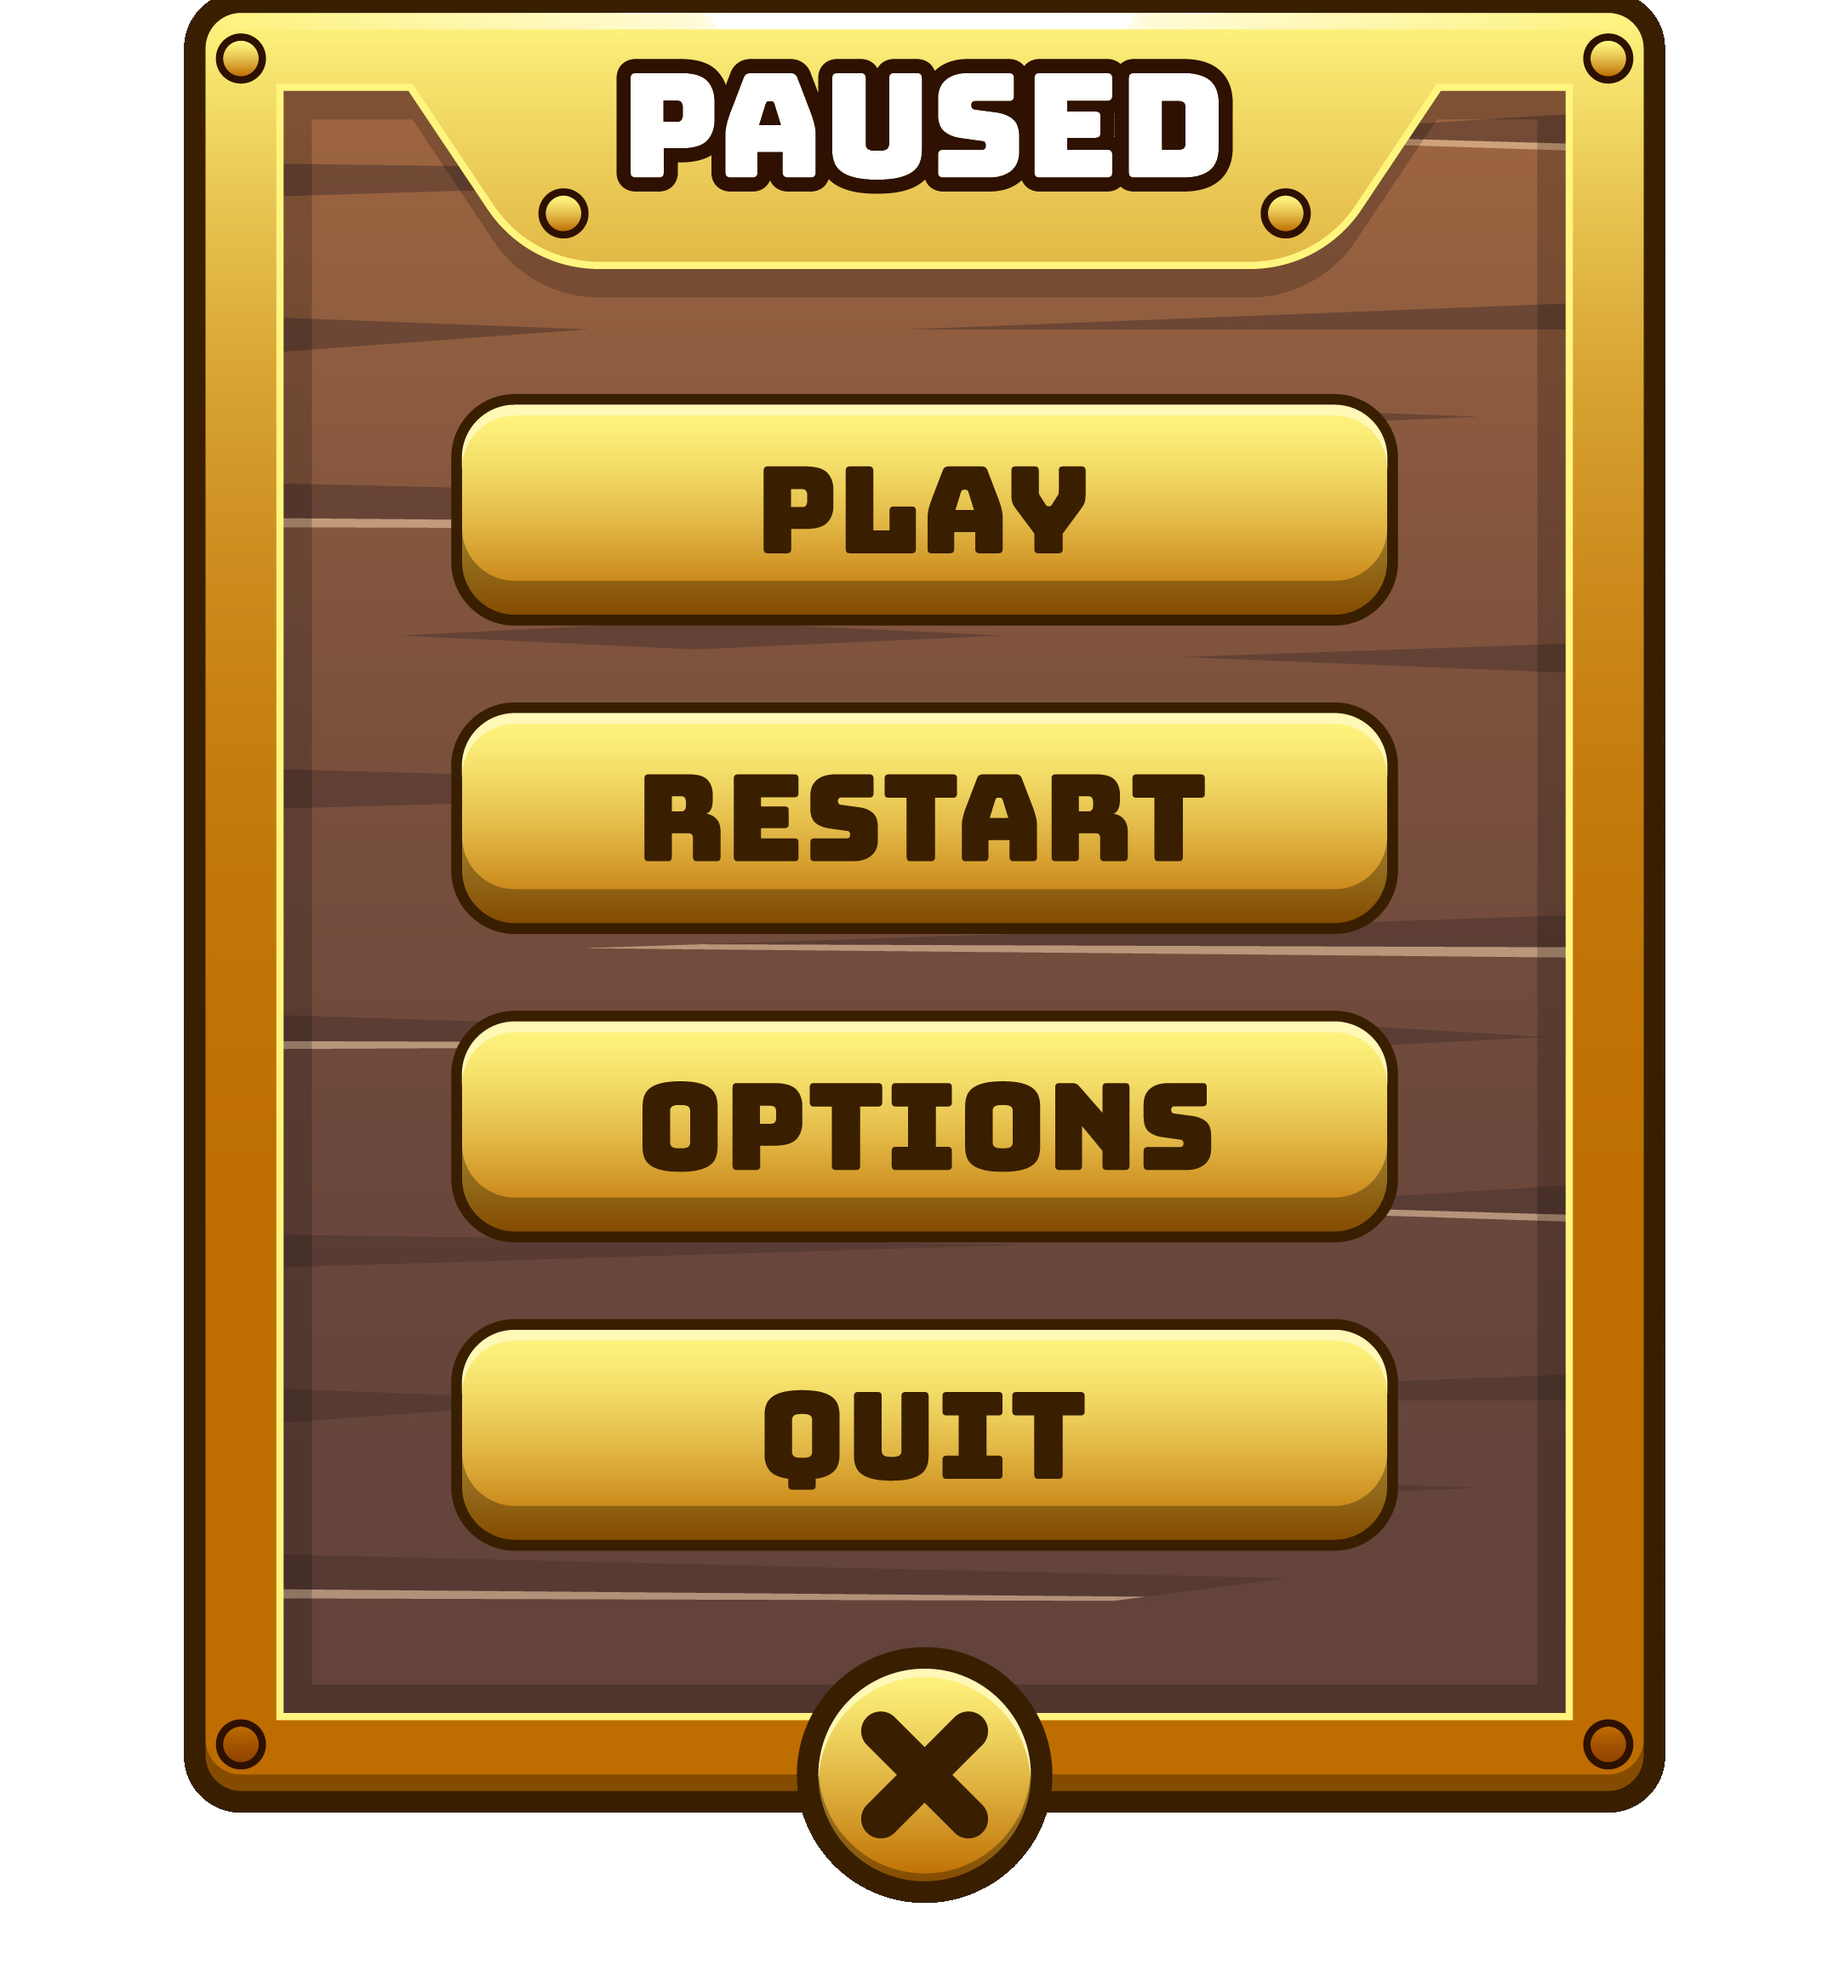
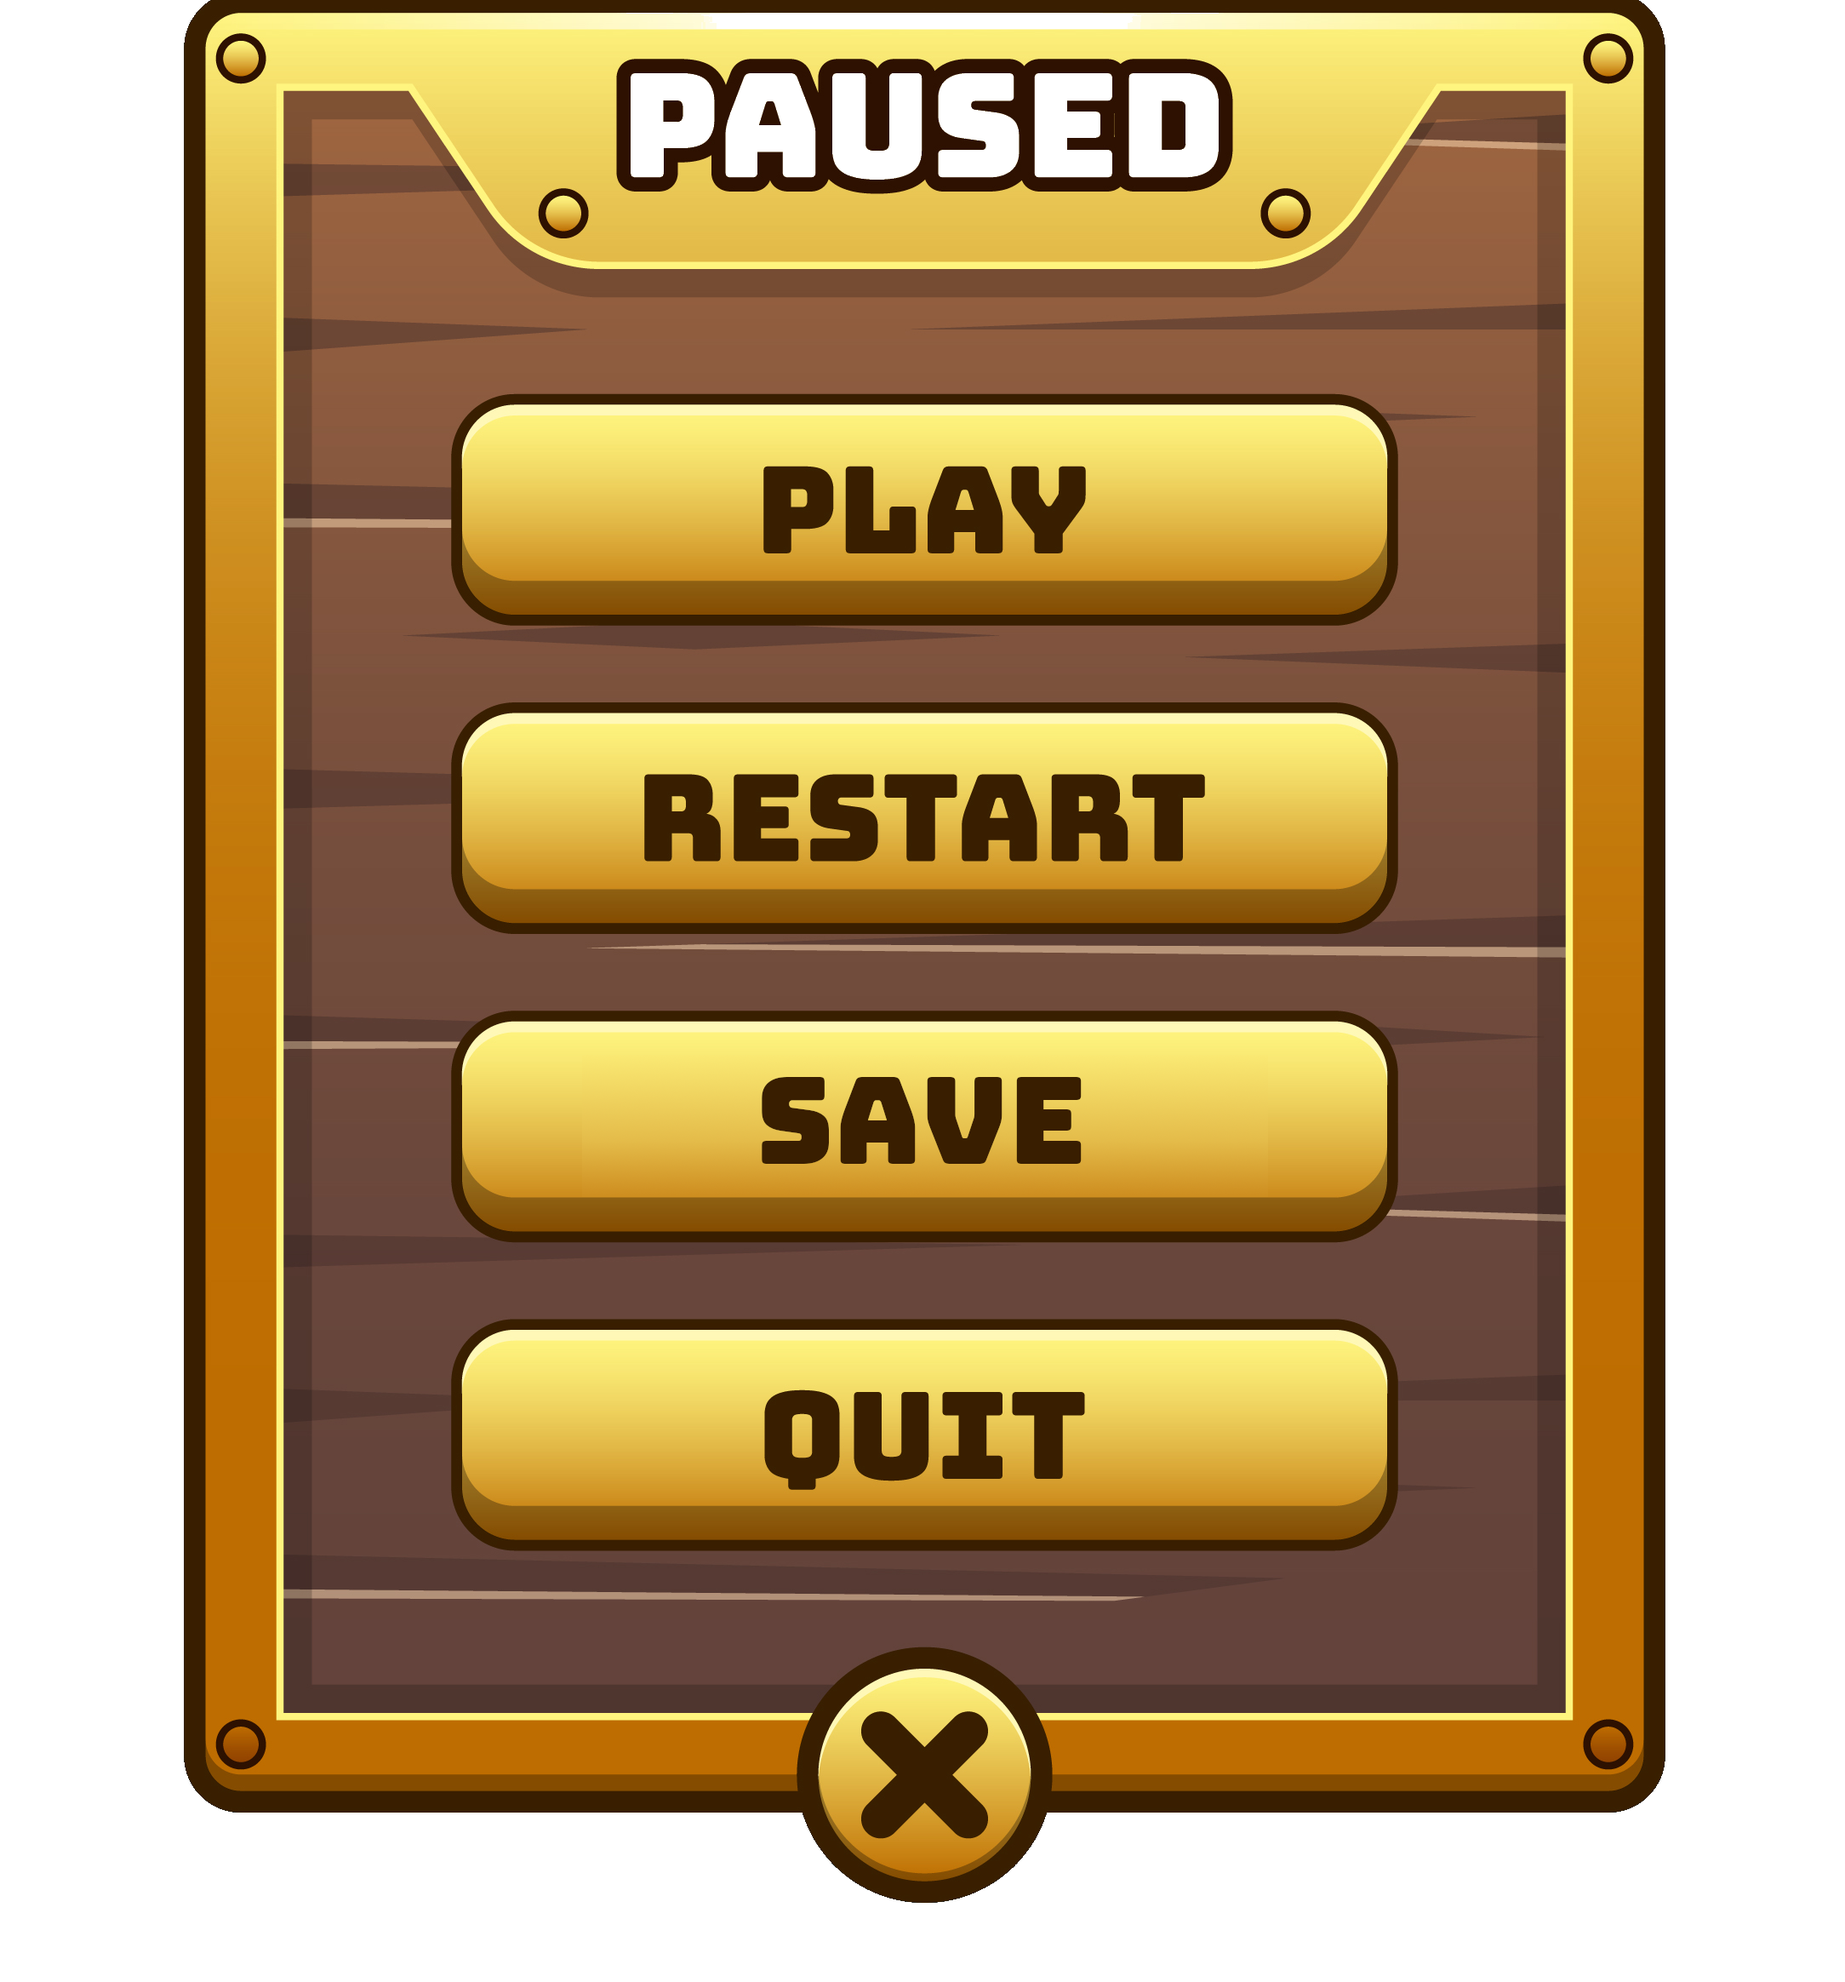
pause menu and save game screen done(only thing left is to maybe add more the the static level)

Changed region(s): [[0.3399, 0.5258, 0.6799, 0.5876]]

diff --git a/core/src/main/java/Screens/SettingsMenu.java b/core/src/main/java/Screens/SettingsMenu.java
@@ -9,6 +9,7 @@ import com.badlogic.gdx.graphics.Color;
 import com.badlogic.gdx.graphics.Pixmap;
 import com.badlogic.gdx.graphics.Texture;
 import com.badlogic.gdx.graphics.g2d.NinePatch;
+import com.badlogic.gdx.graphics.g2d.TextureRegion;
 import com.badlogic.gdx.scenes.scene2d.InputEvent;
 import com.badlogic.gdx.scenes.scene2d.ui.Button;
 import com.badlogic.gdx.scenes.scene2d.ui.Image;
@@ -18,31 +19,30 @@ import com.badlogic.gdx.scenes.scene2d.utils.NinePatchDrawable;
 import com.badlogic.gdx.utils.ScreenUtils;
 
 public class SettingsMenu extends BaseScreen{
-    private Texture prev_screen;
 
-    public SettingsMenu(Game game, Texture prev_screen){
+    public SettingsMenu(Game game){
         super(game);
-        this.prev_screen = prev_screen;
+        Image bg = new Image(new Texture(Gdx.files.internal("screens/mainmenu/angy bird bg.jpg")));
         Image background = new Image(new Texture(Gdx.files.internal("screens/settingsmenu/settingsmenu.png")));
         background.setSize(1000,   background.getHeight() / background.getWidth() * 1000);
         background.setPosition(stage.getWidth() / 2 - background.getWidth() / 2, stage.getHeight() / 2 - background.getHeight() / 2);
 
-        // Create a Pixmap for the stroke (border)
-        Pixmap pixmap = new Pixmap(100, 100, Pixmap.Format.RGBA8888);
-        pixmap.setColor(Color.RED); // Stroke color
-        pixmap.drawRectangle(0, 0, 100, 100); // Draw a rectangle stroke
-
-// Create a texture from the pixmap
-        Texture pixmapTexture = new Texture(pixmap);
-        pixmap.dispose(); // Dispose of the pixmap after creating the texture
-
-// Create a NinePatch from the texture to handle resizing
-        NinePatch strokeNinePatch = new NinePatch(pixmapTexture, 2, 2, 2, 2); // Adjust the patch settings for the stroke size
-        Drawable strokeDrawable = new NinePatchDrawable(strokeNinePatch);
-
-// Create a ButtonStyle and assign the stroke drawable
-        Button.ButtonStyle strokeButtonStyle = new Button.ButtonStyle();
-        strokeButtonStyle.up = strokeDrawable; // Use the stroke drawable as the button's up state
+//        // Create a Pixmap for the stroke (border)
+//        Pixmap pixmap = new Pixmap(100, 100, Pixmap.Format.RGBA8888);
+//        pixmap.setColor(Color.RED); // Stroke color
+//        pixmap.drawRectangle(0, 0, 100, 100); // Draw a rectangle stroke
+//
+//// Create a texture from the pixmap
+//        Texture pixmapTexture = new Texture(pixmap);
+//        pixmap.dispose(); // Dispose of the pixmap after creating the texture
+//
+//// Create a NinePatch from the texture to handle resizing
+//        NinePatch strokeNinePatch = new NinePatch(pixmapTexture, 2, 2, 2, 2); // Adjust the patch settings for the stroke size
+//        Drawable strokeDrawable = new NinePatchDrawable(strokeNinePatch);
+//
+//// Create a ButtonStyle and assign the stroke drawable
+//        Button.ButtonStyle strokeButtonStyle = new Button.ButtonStyle();
+//        strokeButtonStyle.up = strokeDrawable; // Use the stroke drawable as the button's up state
 
         // Create a button style with no background or drawable
         Button.ButtonStyle invisibleButtonStyle = new Button.ButtonStyle();
@@ -53,6 +53,7 @@ public class SettingsMenu extends BaseScreen{
         Button back = new Button(invisibleButtonStyle);
         back.setSize(120,120);
         back.setPosition(stage.getWidth() / 2 - back.getWidth() / 2 - 10, 100);
+        stage.addActor(bg);
         stage.addActor(background);
         stage.addActor(back);
         back.addListener(new ClickListener() {
@@ -68,9 +69,9 @@ public class SettingsMenu extends BaseScreen{
     @Override
     public void render(float delta){
         ScreenUtils.clear(Color.BLACK);
-        batch.begin();
-        batch.draw(prev_screen, stage.getWidth(), stage.getHeight());
-        batch.end();
+//        batch.begin();
+//        batch.draw(prev_screen, stage.getWidth(), stage.getHeight());
+//        batch.end();
         super.render(delta);
     }
 

diff --git a/core/src/main/java/Screens/Pause.java b/core/src/main/java/Screens/Pause.java
@@ -15,28 +15,40 @@ import com.badlogic.gdx.scenes.scene2d.ui.TextButton;
 import com.badlogic.gdx.scenes.scene2d.utils.ClickListener;
 import com.badlogic.gdx.scenes.scene2d.utils.Drawable;
 import com.badlogic.gdx.scenes.scene2d.utils.NinePatchDrawable;
+import com.badlogic.gdx.utils.ScreenUtils;
 
 public class Pause extends BaseScreen{
     private Screen prev_screen;
-    private Button resume;
-    private Button save;
-    private Button levelselect;
     private Image pausebg;
     public Pause(Game game, Screen prev_screen) {
         super(game);
         this.prev_screen = prev_screen;
-        pausebg = Assets.pausebg;
-        pausebg.setSize(250,   pausebg.getHeight() / pausebg.getWidth() * 250);
+        Image pausebg = Assets.pausebg;
+//        pausebg = Assets.pausebg;
+        pausebg.setSize(500,   pausebg.getHeight() / pausebg.getWidth() * 500);
         pausebg.setPosition(stage.getWidth() / 2 - pausebg.getWidth() / 2 - 50, stage.getHeight() / 2 - pausebg.getHeight() / 2);
-        resume = new TextButton("resume", skin);
-        resume.setPosition(stage.getWidth() / 2 - pausebg.getWidth() / 2 + 40, stage.getHeight() / 2 - pausebg.getHeight() / 2 + 150);
-        save = new TextButton("save", skin);
-        save.setPosition(stage.getWidth() / 2 - pausebg.getWidth() / 2 + 40, stage.getHeight() / 2 - pausebg.getHeight() / 2 + 90);
-        levelselect = new TextButton("level select", skin);
-        levelselect.setPosition(stage.getWidth() / 2 - pausebg.getWidth() / 2 + 40, stage.getHeight() / 2 - pausebg.getHeight() / 2 + 40);
-        //        Button resume = new Button(Assets.resumeButtonStyle);
+
+        // Create a button style with no background or drawable
+        Button.ButtonStyle invisibleButtonStyle = new Button.ButtonStyle();
+        invisibleButtonStyle.up = null;   // No texture for the normal state
+        invisibleButtonStyle.down = null; // No texture for the pressed state
+        invisibleButtonStyle.checked = null; // No texture for the checked state
+
+        Button resume = new Button(invisibleButtonStyle);
+        resume.setSize(5 * grid_size,1.15f * grid_size);
+        resume.setPosition(12.5f * grid_size, 11 * grid_size);
+        Button save = new Button(invisibleButtonStyle);
+        save.setSize(5 * grid_size,1.15f * grid_size);
+        save.setPosition(12.5f * grid_size, 7.75f * grid_size);
+        Button restart = new Button(invisibleButtonStyle);
+        restart.setSize(5 * grid_size,1.15f * grid_size);
+        restart.setPosition(12.5f * grid_size, 9.4f * grid_size);
+        Button levelselect = new Button(invisibleButtonStyle);
+        levelselect.setSize(5 * grid_size,1.15f * grid_size);
+        levelselect.setPosition(12.5f * grid_size, 6 * grid_size);
         stage.addActor(pausebg);
         stage.addActor(resume);
+        stage.addActor(restart);
         stage.addActor(save);
         stage.addActor(levelselect);
 
@@ -53,6 +65,14 @@ public class Pause extends BaseScreen{
             public void clicked(InputEvent event, float x, float y) {
                 // Handle button click
                 game.setScreen(new LevelSelect(game));
+                dispose();
+            }
+        });
+        save.addListener(new ClickListener() {
+            @Override
+            public void clicked(InputEvent event, float x, float y) {
+                // Handle button click
+                game.setScreen(new SaveGame(game));
                 dispose();
             }
         });

diff --git a/core/src/main/java/Screens/BaseScreen.java b/core/src/main/java/Screens/BaseScreen.java
@@ -7,7 +7,9 @@ import com.badlogic.gdx.ScreenAdapter;
 import com.badlogic.gdx.graphics.Color;
 import com.badlogic.gdx.graphics.GL20;
 import com.badlogic.gdx.graphics.Pixmap;
+import com.badlogic.gdx.graphics.Texture;
 import com.badlogic.gdx.graphics.g2d.SpriteBatch;
+import com.badlogic.gdx.graphics.g2d.TextureRegion;
 import com.badlogic.gdx.graphics.glutils.FrameBuffer;
 import com.badlogic.gdx.graphics.glutils.ShapeRenderer;
 import com.badlogic.gdx.physics.box2d.Shape;
@@ -25,6 +27,7 @@ public class BaseScreen extends ScreenAdapter {
     private boolean grid;
     protected Skin skin;
     protected FrameBuffer frameBuffer;
+    protected TextureRegion prevScreen;
 
     public BaseScreen(Game game) {
         stage = new Stage(new FitViewport(1600, 900));
@@ -43,8 +46,23 @@ public class BaseScreen extends ScreenAdapter {
     @Override
     public void show() {
         // Set the input processor to this stage
+        frameBuffer.begin();
         Gdx.input.setInputProcessor(stage);
         render(0);
+        frameBuffer.end();
+        TextureRegion textureRegion = new TextureRegion(frameBuffer.getColorBufferTexture());
+        textureRegion.flip(false, true); // Flip vertically
+
+        prevScreen = textureRegion;
+
+        // Render the new screen's background using the captured texture
+        Gdx.gl.glClear(GL20.GL_COLOR_BUFFER_BIT);
+
+        batch.begin();
+        batch.draw(prevScreen, 0, 0, Gdx.graphics.getWidth(), Gdx.graphics.getHeight());
+        batch.end();
+//        prevScreen = frameBuffer.getColorBufferTexture();
+//        prevScreen.setFilter(Texture.TextureFilter.Linear, Texture.TextureFilter.Linear);
     }
 
     @Override

diff --git a/core/src/main/java/Screens/StartingMenu.java b/core/src/main/java/Screens/StartingMenu.java
@@ -23,7 +23,7 @@ public class StartingMenu extends BaseScreen {
     private ImageButton settings;
     private SpriteBatch batch;
     private Image background;
-    private Texture cogTexture, prevScreen;
+    private Texture cogTexture;
 
 
 
@@ -77,7 +77,7 @@ public class StartingMenu extends BaseScreen {
             @Override
             public void clicked(InputEvent event, float x, float y) {
                 // Handle button click
-                game.setScreen(new SettingsMenu(game, prevScreen));
+                game.setScreen(new SettingsMenu(game));
             }
         });
 
@@ -118,7 +118,6 @@ public class StartingMenu extends BaseScreen {
 
     @Override
     public void render(float delta) {
-//        frameBuffer.begin();
         Gdx.gl.glClearColor(0, 0, 0, 1);
         Gdx.gl.glClear(GL20.GL_COLOR_BUFFER_BIT);
 
@@ -131,15 +130,12 @@ public class StartingMenu extends BaseScreen {
         shapeRenderer.circle(45, 45, 40);
         shapeRenderer.end();
         super.render(delta);
-//        frameBuffer.end();
-//        prevScreen = frameBuffer.getColorBufferTexture();
-//        prevScreen.setFilter(Texture.TextureFilter.Linear, Texture.TextureFilter.Linear);
+
     }
 
     @Override
     public void dispose() {
         super.dispose();
         cogTexture.dispose();
-        prevScreen.dispose();
     }
 }

diff --git a/core/src/main/java/Screens/SaveGame.java b/core/src/main/java/Screens/SaveGame.java
@@ -1,0 +1,32 @@
+package Screens;
+
+import com.badlogic.gdx.Game;
+import com.badlogic.gdx.Gdx;
+import com.badlogic.gdx.graphics.Color;
+import com.badlogic.gdx.scenes.scene2d.InputEvent;
+import com.badlogic.gdx.scenes.scene2d.ui.TextButton;
+import com.badlogic.gdx.scenes.scene2d.utils.ClickListener;
+import com.badlogic.gdx.utils.Align;
+import com.badlogic.gdx.utils.ScreenUtils;
+
+public class SaveGame extends BaseScreen{
+    public SaveGame(Game game){
+        super(game);
+        TextButton placeholder = new TextButton("Save Game TBD", skin);
+        placeholder.setPosition(stage.getWidth() / 2, stage.getHeight() / 2);
+        stage.addActor(placeholder);
+
+        placeholder.addListener (new ClickListener() {
+            @Override
+            public void clicked(InputEvent event, float x, float y) {
+                // Handle button click
+                game.setScreen(new StartingMenu(game));
+            }
+        });
+    }
+    @Override
+    public void render(float delta){
+        ScreenUtils.clear(Color.WHITE);
+        super.render(delta);
+    }
+}

diff --git a/core/src/main/java/birds/angry/GameSprites/Assets.java b/core/src/main/java/birds/angry/GameSprites/Assets.java
@@ -37,7 +37,7 @@ public class Assets {
         woodlog = loadTexture("screens/levels/woodlog.png");
         icelog = loadTexture("screens/levels/icelog.png");
         stonelog = loadTexture("screens/levels/stonelog.png");
-        pausebg = new Image(loadTexture("screens/pausebg.png"));
+        pausebg = new Image(loadTexture("screens/pausemenu.png"));
         winbg = new Image(loadTexture("screens/3star.png"));
     }
     // make the appropriate dispose function
